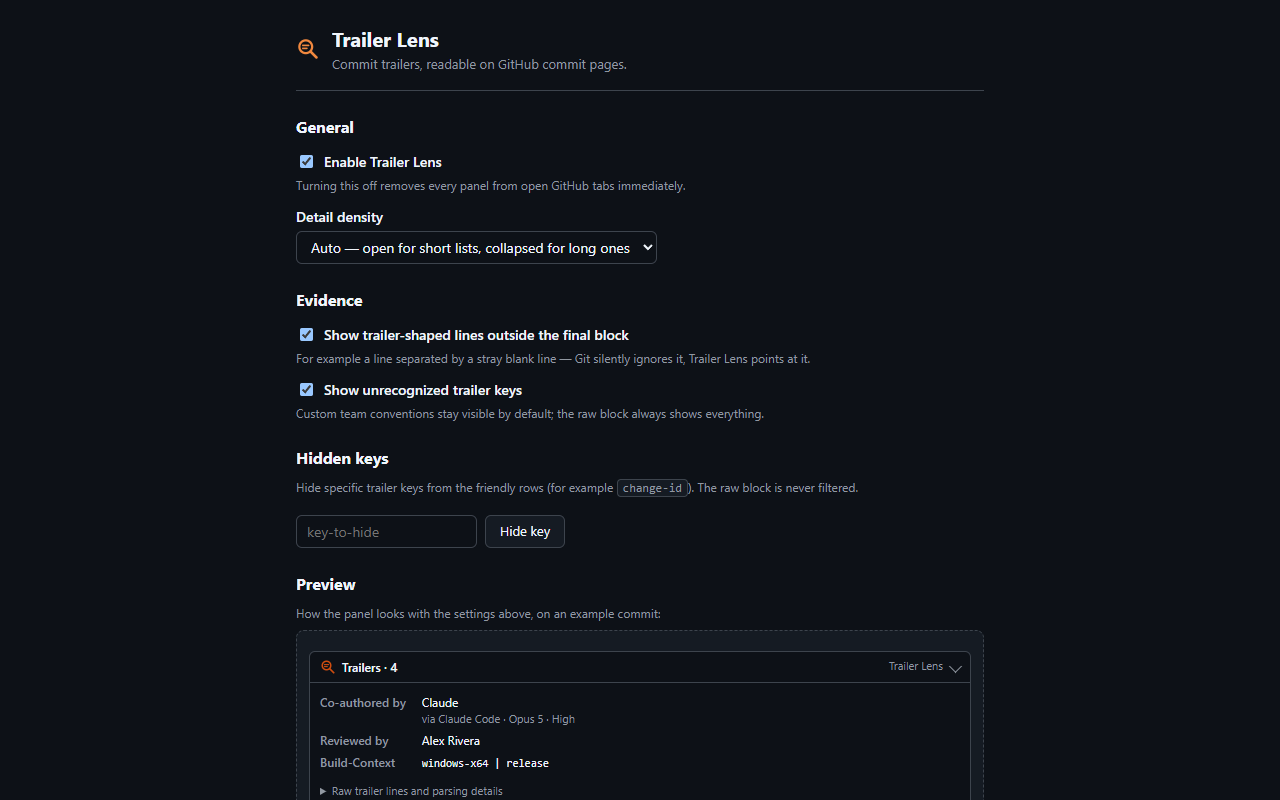
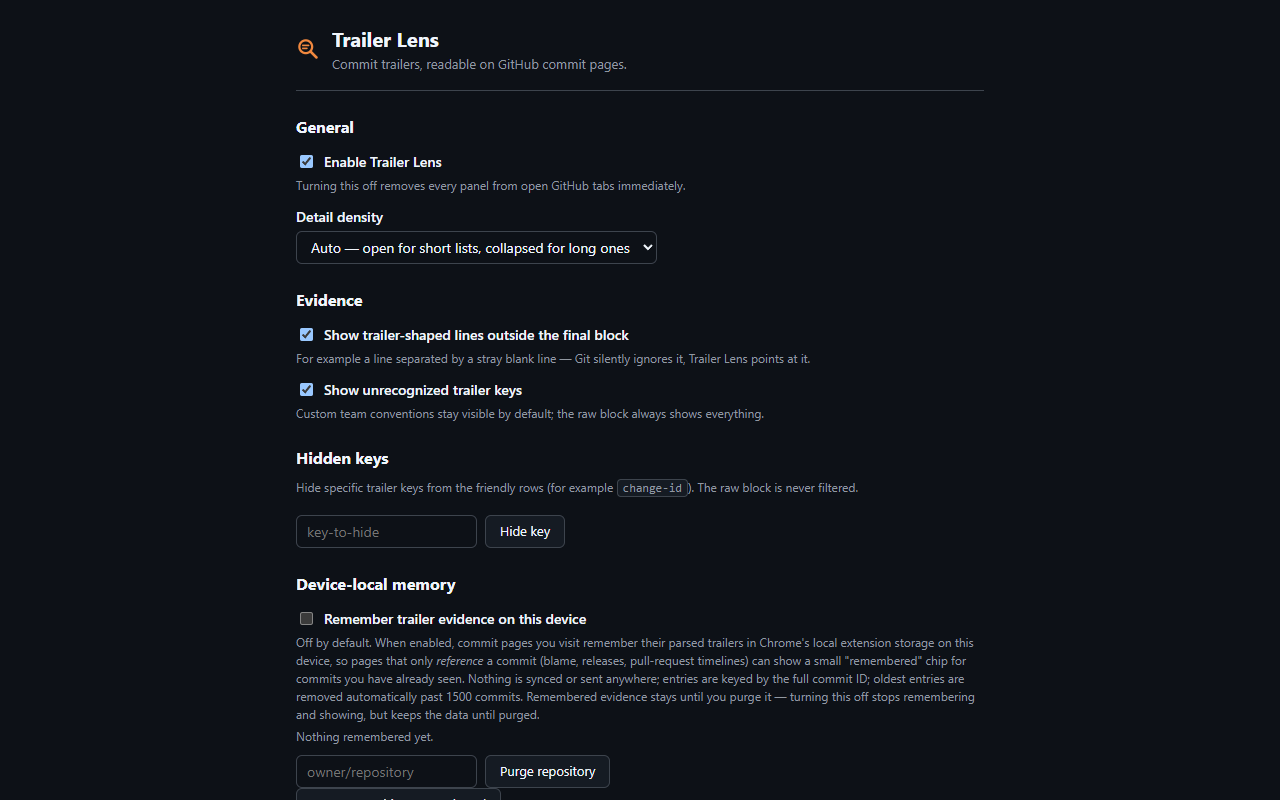
Ship 1.1.0: docs, listing, screenshots, version truth
README, privacy policy, repository instructions, decisions (measured
retention numbers, admitted and excluded surfaces with exact gates,
disable semantics), project map, development notes, versioned Store
listing with the updated data-use declaration, changelog, regenerated
options screenshot, the live blame-chip image, and the 1.1.0 version
across package, manifest, and badge. The package verifier allowlists the
URL-parsing base literal it caught in the bundle.

Co-authored-via: Tala | Claude Code | Fable 5 | XHigh

Changed region(s): [[0.2188, 0.7188, 0.7812, 1.0]]

diff --git a/README.md b/README.md
@@ -1,7 +1,7 @@
 # Trailer Lens
 
 [![CI](https://img.shields.io/github/actions/workflow/status/Wolfsblvt/trailer-lens/ci.yml?branch=main&label=CI)](https://github.com/Wolfsblvt/trailer-lens/actions/workflows/ci.yml)
-[![Version](https://img.shields.io/badge/version-1.0.0-cf4d0f)](CHANGELOG.md)
+[![Version](https://img.shields.io/badge/version-1.1.0-cf4d0f)](CHANGELOG.md)
 [![License: AGPL-3.0-or-later](https://img.shields.io/badge/license-AGPL--3.0--or--later-blue)](LICENSE)
 [![Manifest V3](https://img.shields.io/badge/manifest-v3-4c8dae)](manifest.json)
 [![No runtime dependencies](https://img.shields.io/badge/runtime%20deps-none-2ea44f)](package.json)
@@ -37,6 +37,12 @@ everything Git would silently ignore still visible and labeled as such.
   ![Malformed blank-line case with diagnostics and the raw block](docs/images/malformed-evidence.png)
 
 - **The exact raw block**, copyable, with source order, repeated keys, casing, and spacing preserved.
+- **Remembered evidence where commits are only referenced** *(optional, off by default)*: enable *device-local
+  memory* in the settings and commit pages you visit remember their parsed trailers on your device, so blame views,
+  release pages, and PR/issue timelines show a small lens chip for commits you have already seen — clearly labeled
+  as remembered, keyed by the full commit ID, never guessed from a short hash, and never synced or sent anywhere.
+
+  ![Remembered-evidence chip on a real blame view](docs/images/memory-chip-live-blame.png)
 
 Dark mode, dark-dimmed, and forced-colors follow GitHub's own theme:
 
@@ -51,15 +57,19 @@ Dark mode, dark-dimmed, and forced-colors follow GitHub's own theme:
   person acted.
 - It never talks to any server. No GitHub token, no API calls, no backend, no analytics, no telemetry, no remote
   code, no external assets. Private repositories work because your signed-in browser can already see the page — the
-  extension has no access of its own. See [PRIVACY.md](PRIVACY.md) for the whole (short) story.
+  extension has no access of its own. Page content is stored only if you explicitly enable device-local memory, and
+  then only parsed trailer evidence, only on your device, with purge controls. See [PRIVACY.md](PRIVACY.md) for the
+  whole (short) story.
 
 ## Supported surfaces
 
 Commit pages — `github.com/<owner>/<repo>/commit/<sha>` — public and private, including commit pages reached from
-repository history and pull requests. Surfaces that only *reference* a commit without carrying its full message
-(issue timelines, profile activity, blame) deliberately show nothing: rendering trailers there would require API
-calls and a token, which this product refuses by design. History and PR commit lists are candidates for a later
-release behind the same no-network boundary.
+repository history and pull requests, are where evidence is read. Surfaces that only *reference* a commit without
+carrying its full message show nothing by default: rendering trailers there would require API calls and a token,
+which this product refuses by design. With **device-local memory** enabled, blame views, release pages, and PR/issue
+timeline references additionally show remembered chips for commits you have already visited — still with no network
+access, and an unremembered commit still shows nothing rather than a guess. History and PR commit lists are
+candidates for a later release behind the same boundary.
 
 ## Installation
 
@@ -76,9 +86,10 @@ release behind the same no-network boundary.
 
 ## Settings
 
-The options page (right-click the toolbar icon → Options) has five controls, live in every open tab: enable, detail
-density (auto / compact / expanded), diagnostics, unknown-key visibility, and hidden keys. The raw block is never
-filtered. Reset is two-step and cannot be hit by accident.
+The options page (right-click the toolbar icon → Options) has six controls, live in every open tab: enable, detail
+density (auto / compact / expanded), diagnostics, unknown-key visibility, hidden keys, and device-local memory (off
+by default, with stored-size stats and per-repository or complete purge). The raw block is never filtered. Reset and
+purge-everything are two-step and cannot be hit by accident.
 
 ## How it reads trailers
 

diff --git a/docs/DECISIONS.md b/docs/DECISIONS.md
@@ -84,6 +84,37 @@ runtime-relevant channel, so the parser follows the commit channel and the corpu
 separators, `trailer.<token>.key` aliases, a non-default `core.commentChar` — cannot be known from a rendered page and
 is not modeled. Default `#` comment lines are invisible to trailer parsing even in committed messages (oracle-pinned).
 
+## 2026-08-21 — 1.1: device-local trailer memory, strictly opt-in
+
+**Decided:** Version 1.1.0 adds *Remember trailer evidence on this device* — disabled by default, enabled only
+through an explicit options-page action. With it on, qualified commit-detail pages remember their **parsed evidence
+envelope** (never the whole message) in `chrome.storage.local`, and reference-only surfaces show a compact
+"remembered on this device" chip on an exact cache hit. The product contract was accepted in the founding workplace
+and carried in this repository's issue #2; nothing here reopens it.
+
+**Key discipline:** entries are keyed by host + exact `owner/repo` + **full 40-char commit OID**, and identity always
+comes from the reference link's own href — a cross-repository link keys to its own repository, a short display hash
+never becomes a key, and derived-file routes (`.patch`/`.diff`) are not identities. A full OID content-addresses
+immutable commit bytes; freshness concerns are retention and parser-schema evolution, not mutable-SHA folklore.
+
+**Admitted reference surfaces** (each gate-qualified live on 2026-08-21): blame views, release pages, and PR/issue
+timeline commit references — all expose full-OID hrefs. **Excluded with the exact failing gate:** links inside
+comment/markdown bodies (arbitrary user prose is not a stable attributable evidence anchor, and decorating people's
+comments is invasive); short-hash autolinks (no full OID); hovercards (transient unowned positioning); commit-list
+surfaces (they carry the full message, so remembered evidence adds nothing there).
+
+**Retention, measured:** serialized envelopes run ~0.5–2 KB for ordinary blocks and ~13 KB at the parser's 64-entry
+cap; a single entry above 32 KB is not stored. The cap is 1500 entries (~3 MB if every entry were rich — well under
+the ~10 MB `chrome.storage.local` quota, so `unlimitedStorage` is not requested). Eviction is deterministic: oldest
+`storedAt` first, key order as tiebreak, in batches of 100. Settings and memory are separately owned storage records;
+purge (per-repository and complete) never touches settings and works regardless of the enable state.
+
+**Disable semantics (the documented honest choice):** turning memory off stops learning and stops rendering
+immediately, but retains stored evidence until purged — the options page says exactly that beside the toggle.
+
+**Learning source:** only the commit-detail adapter — the one surface qualified to carry the complete message. List
+payloads are not promoted merely because they looked promising.
+
 ## 2026-08-21 — Release model
 
 **Decided:** One version source of truth (`package.json` = generated/validated manifest = changelog = tag = package

diff --git a/PRIVACY.md b/PRIVACY.md
@@ -14,9 +14,19 @@ GitHub token, no API access, and no way to see anything you cannot.
 
 ## What Trailer Lens stores
 
-Your settings — on/off, density, diagnostics, unknown keys, hidden keys — in Chrome's local extension storage on your
-device. Nothing else. Specifically never stored: commit messages, parsed trailers, commit SHAs, repository names,
-URLs, or any browsing history. Uninstalling the extension removes the stored settings.
+Your settings — on/off, density, diagnostics, unknown keys, hidden keys, and the memory toggle below — in Chrome's
+local extension storage on your device. With everything at its defaults, nothing else is ever stored: no commit
+messages, parsed trailers, commit SHAs, repository names, URLs, or browsing history.
+
+**Device-local memory (optional, off by default).** If you explicitly enable *Remember trailer evidence on this
+device* in the settings, then commit pages you visit additionally store their **parsed trailer evidence** — the
+trailer lines and their parsing result, keyed by repository and full commit ID — in the same local extension storage,
+so pages that only reference a commit can show what you already saw. This is the one way any page content ever enters
+storage, and it comes with plain controls: it never includes whole commit messages beyond the trailer evidence
+itself, it is never synced or transmitted anywhere, entries are capped with oldest-first removal, the settings page
+shows how much is stored, and you can purge one repository or everything at any time. Turning the toggle off stops
+remembering and showing immediately; stored evidence stays on your device until you purge it, and uninstalling the
+extension removes everything.
 
 ## What Trailer Lens sends
 

diff --git a/assets/store/listing.md b/assets/store/listing.md
@@ -3,6 +3,24 @@
 This file keeps the Store listing versioned with the repository: the dashboard form is what Google receives, this is
 the copy source it is filled from, per version. The asset inventory at the end states how every image was produced.
 
+## v1.1.0
+
+Same title, summary, category, and links as v1.0.0. Two changes:
+
+### Description — append after the "custom metadata" bullet list
+
+```text
+- Optional device-local memory (off by default): enable it and commit pages you visit remember their parsed trailers on your device, so blame views, release pages, and PR/issue timelines show a small "remembered" chip for commits you have already seen. Keyed by the full commit ID, clearly labeled as remembered, never synced or sent anywhere, with size stats and per-repository or complete purge in the settings.
+```
+
+### Privacy dashboard declarations — replace the data-usage sentence
+
+- **Data usage:** The extension reads website content (commit-message text) transiently in-page to provide the
+  feature. If the user explicitly enables the optional device-local memory setting (off by default), parsed trailer
+  evidence from visited commit pages is additionally **stored locally on the device** in Chrome extension storage,
+  with user-visible purge controls. The extension never collects, transmits, sells, or shares any user or website
+  data off the device. No analytics, no telemetry, no remote code.
+
 ## v1.0.0
 
 ### Title

diff --git a/docs/PROJECT-MAP.md b/docs/PROJECT-MAP.md
@@ -32,6 +32,8 @@ trailer-lens/
 │  │                       classify, people, pair-coauthor-via
 │  ├─ github/              Routes, rendered-text extraction, adapters,
 │  │                       reconciliation engine
+│  ├─ memory/              Device-local trailer memory: envelope, keys,
+│  │                       bounded store (1.1, opt-in)
 │  ├─ presentation/        View-model, text-node renderer, panel CSS
 │  ├─ settings/            Versioned schema + chrome.storage wrapper
 │  ├─ content/             Content-script entry point
@@ -42,7 +44,8 @@ trailer-lens/
 │  │  ├─ fixtures/         Byte-exact commit-message fixtures
 │  │  ├─ oracle/           Recorded Git projections + manifest
 │  │  └─ *.test.ts         Parser, pairing, classification suites
-│  ├─ settings/            Schema validation suite
+│  ├─ settings/            Schema validation and migration suite
+│  ├─ memory/              Memory keys, round-trip, eviction, purge suite
 │  ├─ assets/              Asset dimension and badge-binding contract
 │  ├─ package/             Packaged-extension (extracted ZIP) smoke
 │  └─ browser/             Playwright suites, fixture pages, harness

diff --git a/CHANGELOG.md b/CHANGELOG.md
@@ -5,6 +5,19 @@ versions follow semantic intent (patch: fixes and compatibility; minor: user-vis
 settings or product contract). Each released version here matches the Git tag, the GitHub release, the package
 filename, and the Chrome Web Store version.
 
+## [1.1.0] - 2026-08-21
+
+### Added
+
+- **Device-local trailer memory**, strictly opt-in (off by default): with *Remember trailer evidence on this device*
+  enabled, commit pages you visit remember their parsed trailer evidence in Chrome local storage (keyed by repository
+  and full commit ID, never a short hash), and blame views, release pages, and PR/issue timeline commit references
+  show a compact, clearly-labeled remembered chip on an exact hit. Nothing is synced or transmitted; entries are
+  capped at 1500 with deterministic oldest-first eviction; the settings page shows entry/size stats and offers
+  per-repository and complete purge (two-step). Turning the toggle off stops remembering and showing immediately;
+  data stays until purged. Links inside comments, short hashes, and unknown commits never receive a chip.
+- Settings schema v2 with lossless migration from v1 (the new field defaults to off).
+
 ## [1.0.0] - 2026-08-21
 
 First release.

diff --git a/AGENTS.md b/AGENTS.md
@@ -19,7 +19,9 @@ These are settled decisions (see `docs/DECISIONS.md`), not defaults to rediscove
   remote code. Real Git and the GitHub REST API are development-time oracles only.
 - **Evidence, not truth.** Strict Git-like trailers and nearby malformed trailer-shaped lines stay distinguishable;
   nothing is silently repaired, and no trailer is presented as verified.
-- **No private content persistence.** Commit messages, SHAs, repository names, and URLs never enter storage or logs.
+- **No silent content persistence.** Nothing from any page is stored or logged unless the user explicitly enables
+  device-local trailer memory; with it enabled, parsed trailer evidence (never whole messages) is kept in
+  chrome.storage.local only — never synced, never transmitted — with purge and retention controls.
 - **Fail closed.** An adapter that cannot prove route, commit identity, full message, and anchor renders nothing.
 
 ## Adoption

diff --git a/docs/DEVELOPMENT.md b/docs/DEVELOPMENT.md
@@ -15,7 +15,7 @@ exists now and grows with the repository; release mechanics live in `RELEASES.md
 | --- | --- |
 | `npm run typecheck` | `tsc --noEmit` under strict settings |
 | `npm run lint` | ESLint, including the static gates for the no-network and text-nodes-only invariants |
-| `npm run test:unit` | Node's built-in test runner over the domain suites (no test framework dependency) |
+| `npm run test:unit` | Node's built-in test runner over the domain, settings, memory, and asset suites |
 | `npm run oracle:generate` | Regenerates `tests/trailers/oracle/` from real Git (two channels, see below) |
 | `npm run build` | Builds `dist/` as the complete unpacked extension |
 | `npm run test:browser` | Playwright browser suites: the real built extension on fixture pages served under github.com URLs via route interception |
